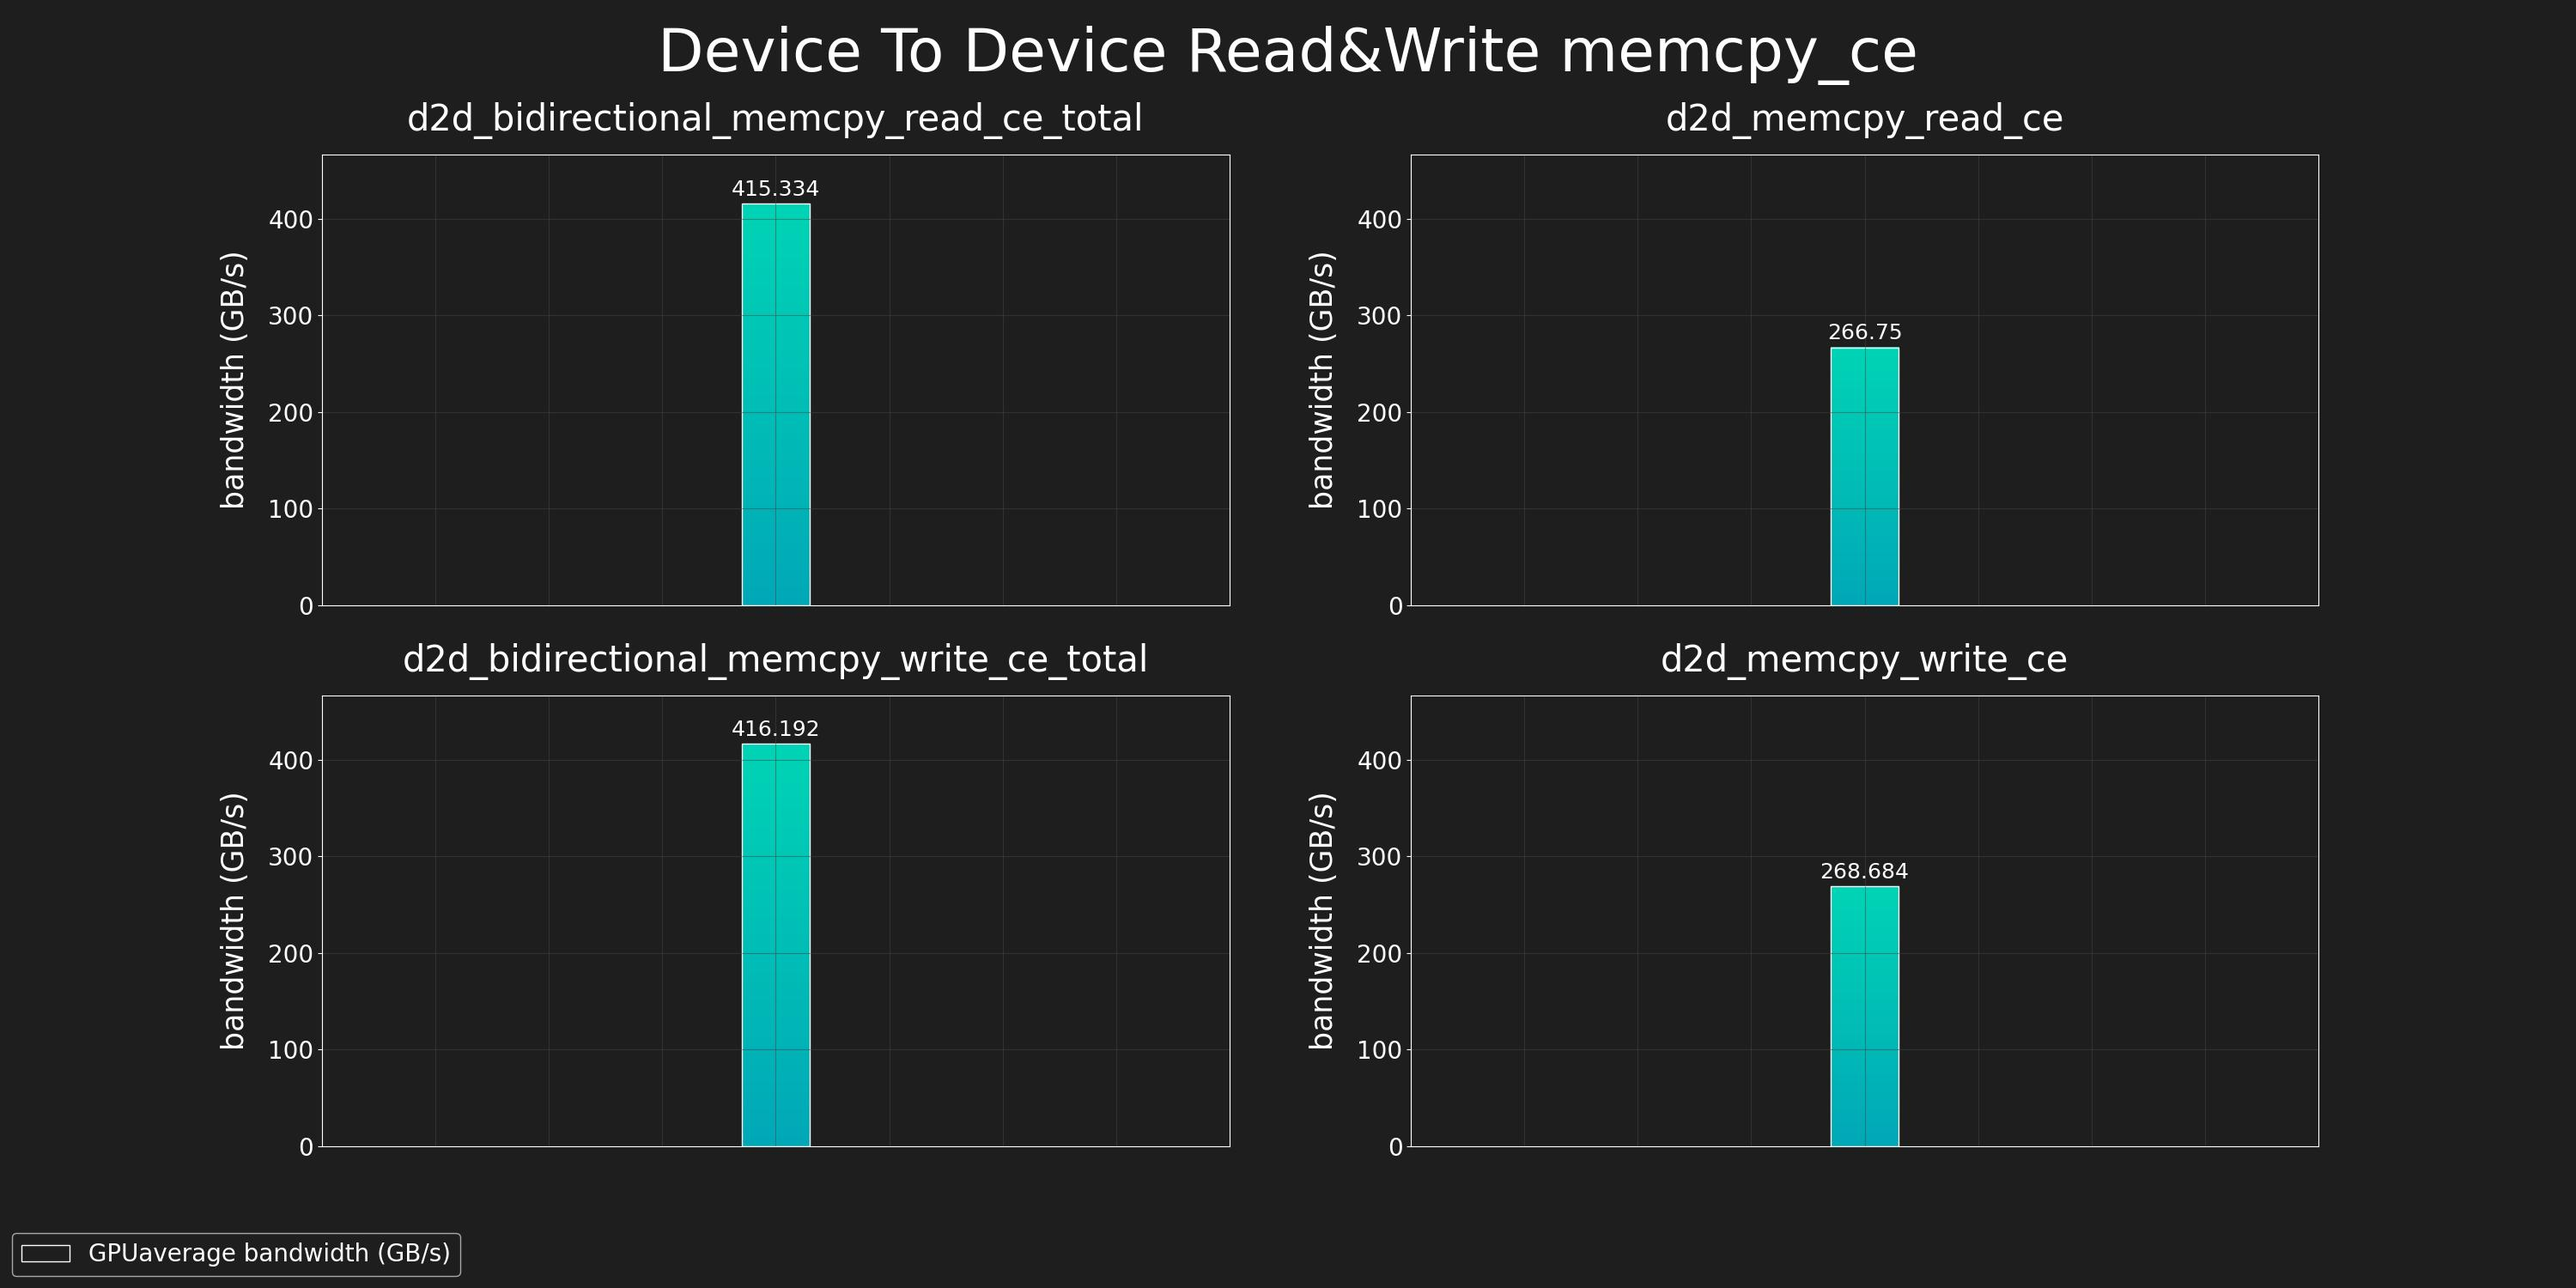
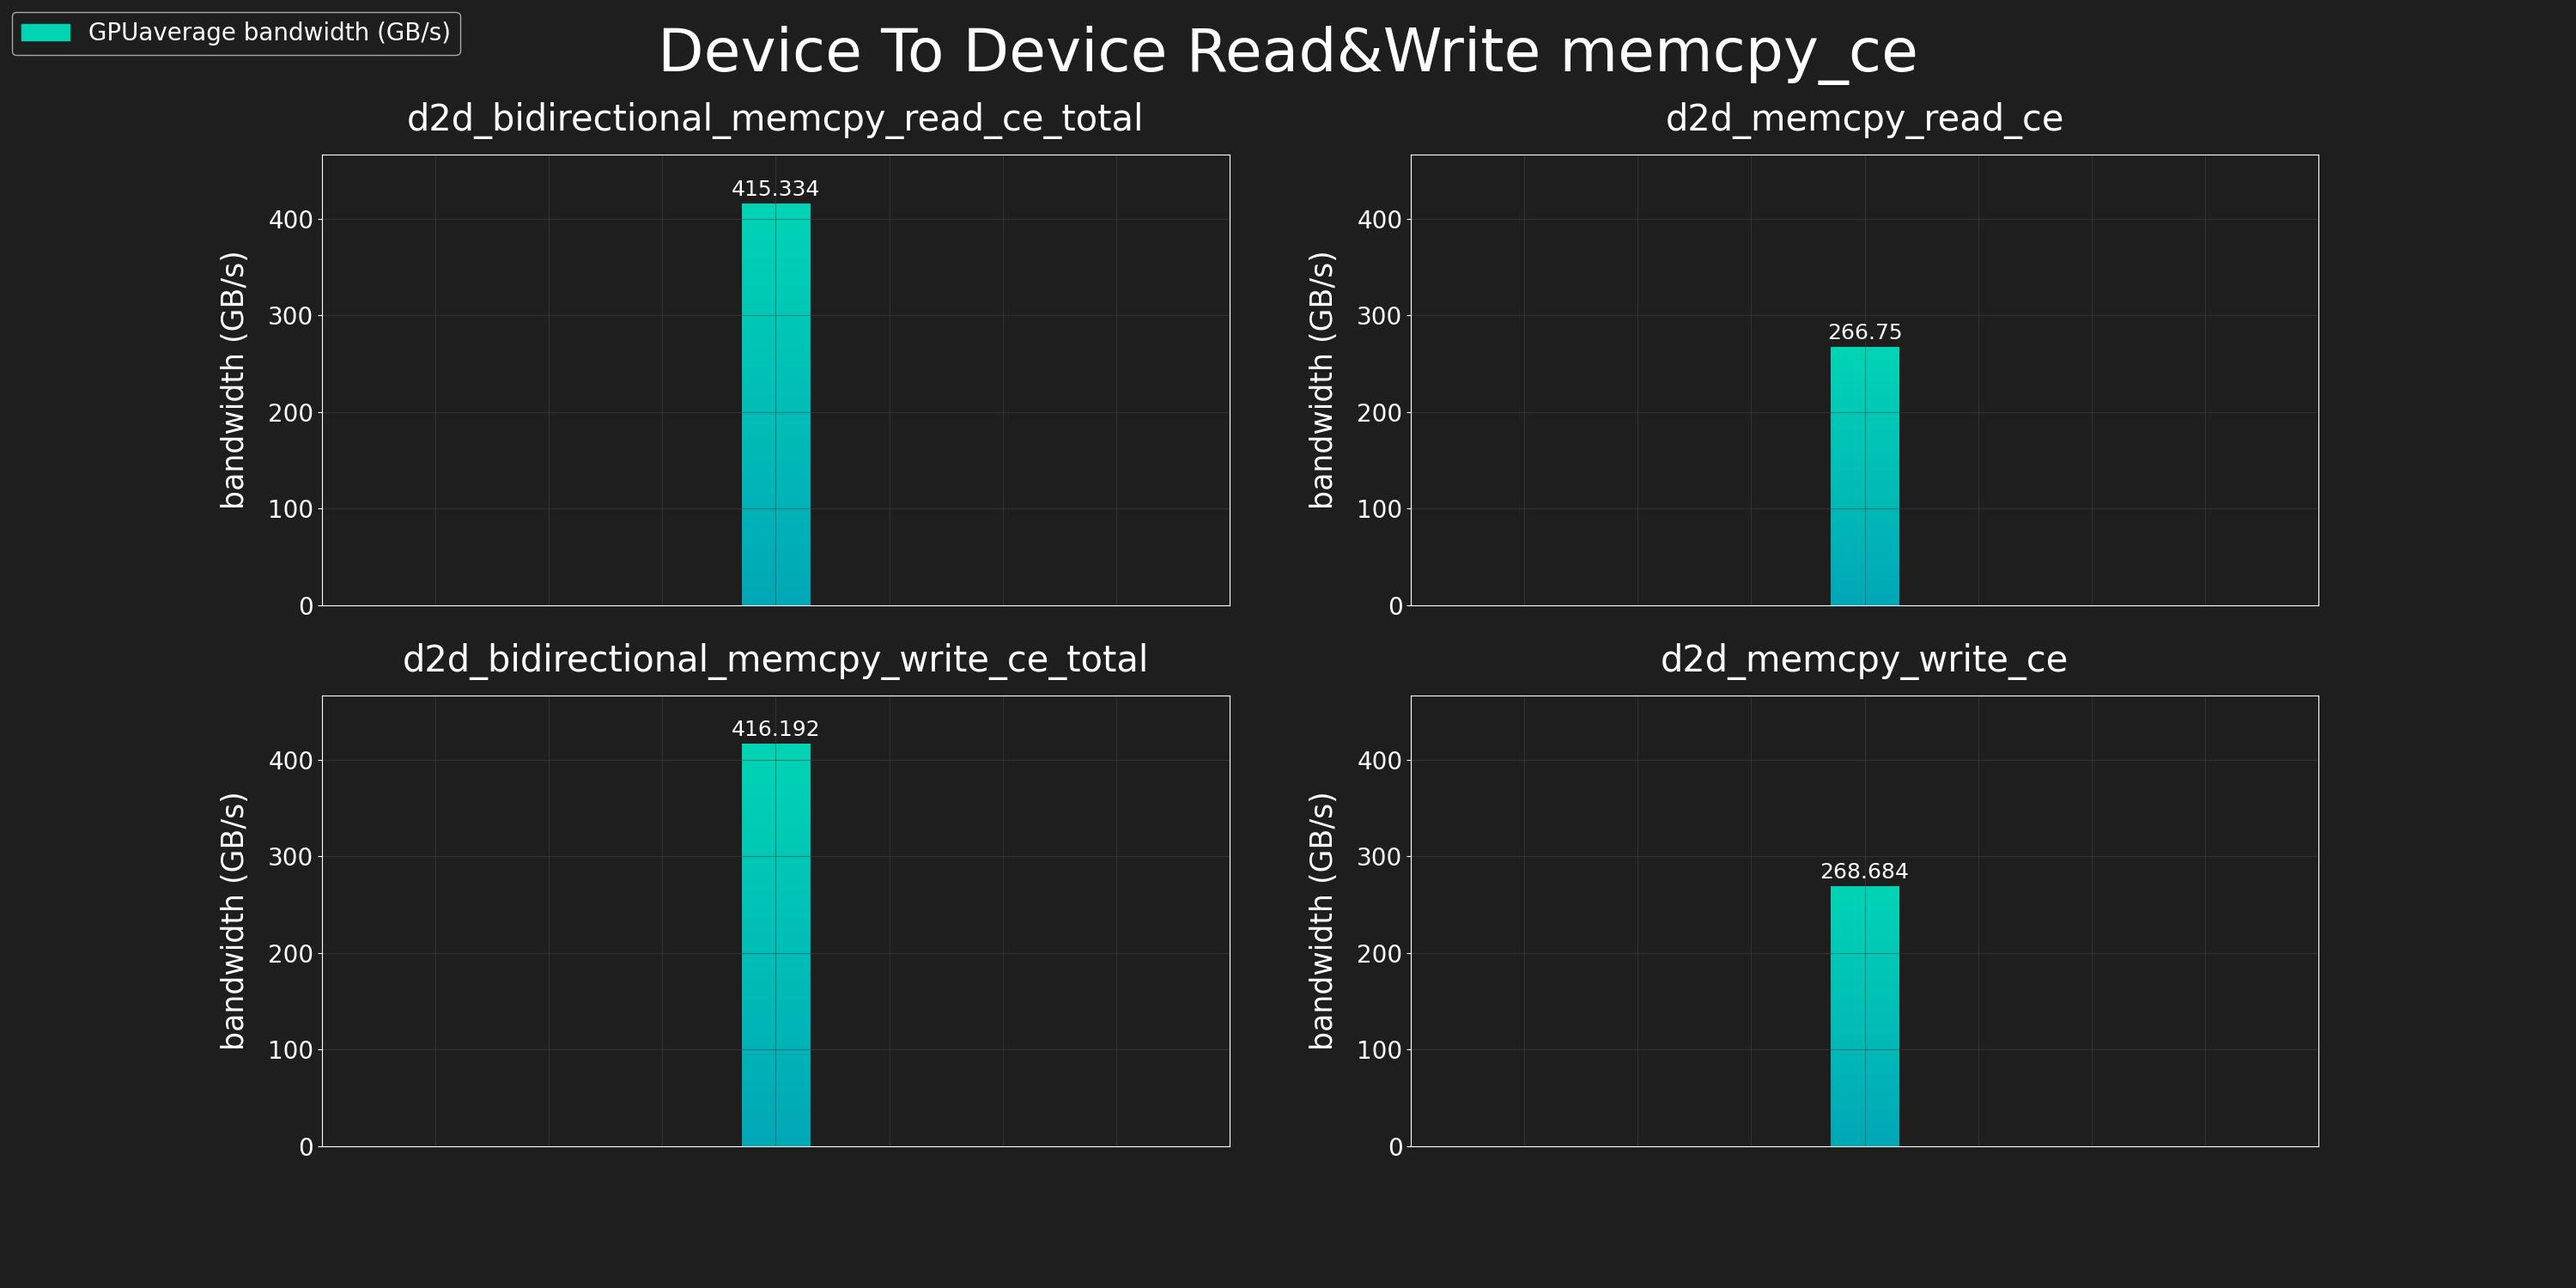
created legend color

Changed region(s): [[0.0, 0.9507, 0.186, 1.0], [0.0, 0.0, 0.186, 0.0613]]

diff --git a/graph_generators/bar_graph.py b/graph_generators/bar_graph.py
@@ -1,7 +1,9 @@
 import matplotlib.pyplot as plt
+import matplotlib.patches as mpatches
 import numpy as np
 
 from graph_generators.gradient_bars import gradient_bars
+from utils.colors import ColorPalette
 from utils.handle_data import save_graphs
 
 
@@ -48,8 +50,7 @@ def plot_four_graphs(data, graph_config, file_name, test_name, test_type = 0):
     idx = 0
     for i in range(2):  # Row index
         for j in range(2):  # Column index
-            bar = ax[i, j].bar(x,  data.iloc[idx, 0],  width=0.15, bottom=None, align='center'
-                               ,edgecolor= 'white', label=data.columns[0] )
+            bar = ax[i, j].bar(x,  data.iloc[idx, 0],  width=0.15, bottom=None, align='center', label=data.columns[0] )
             ax[i, j].bar_label(bar, padding=3, fontsize=graph_config.BAR_LABEL_FONT_SIZE)
             ax[i, j].set_ylim(y_min, y_max)  # Set the same y-axis range
             ax[i, j].set_xlim(0, 2)  # Set x range
@@ -61,8 +62,11 @@ def plot_four_graphs(data, graph_config, file_name, test_name, test_type = 0):
 
             idx += 1
 
-    handles, labels = ax[0, 0].get_legend_handles_labels()  # Extract handles and labels
-    fig.legend(handles, [data.columns[0]], loc="lower left")
+    # handles, labels = ax[0, 0].get_legend_handles_labels()  # Extract handles and labels
+    # fig.legend(handles, [data.columns[0]], loc="lower left")
+    fig.legend(handles=[
+        mpatches.Patch(color=ColorPalette.COLOR_THEME_OPT_VS_ORG[test_type]['start'], label=data.columns[0]),
+    ])
 
     fig.suptitle(test_name, fontsize=graph_config.TITLE_SIZE)
 

diff --git a/graph_generators/opt_vs_org_graph.py b/graph_generators/opt_vs_org_graph.py
@@ -86,29 +86,5 @@ def plot_four_graphs_opt_vs_org(data_org, data_opt, graph_config, file_name, tes
     save_graphs(plt, file_name)
     plt.close(fig)
 
-# def plot_one_column_data(data_org, data_opt, graph_config, file_name, test_name):
-#     x = np.arange(6)
-#
-#     # Create the plot
-#     fig, ax = plt.subplots()
-#
-#     # Plot the bars
-#     rect1 = ax.bar(2, data_org.mean(), 0.4, label='Original xml')
-#     rect2 = ax.bar(3,data_opt.mean(), 0.4, label='Optimal xml')
-#
-#     ax.bar_label(rect1, padding=3, fontsize=graph_config.BAR_LABEL_FONT_SIZE)
-#     ax.bar_label(rect2, padding=3, fontsize=graph_config.BAR_LABEL_FONT_SIZE)
-#
-#     ax.set_xticks(x)
-#     ax.tick_params(axis='x', labelbottom=False)
-#     ax.set_xlabel(graph_config.X_AXIS)
-#
-#     ax.set_ylabel(graph_config.Y_AXIS)
-#     ax.set_title(test_name)
-#
-#     # Extend the y-limit to make room for the legend
-#     ax.set_ylim(0, max(data_org.max().max(), data_opt.max().max()) * 1.2)
-#     ax.legend()
-#     save_graphs(plt, file_name)
 
 
